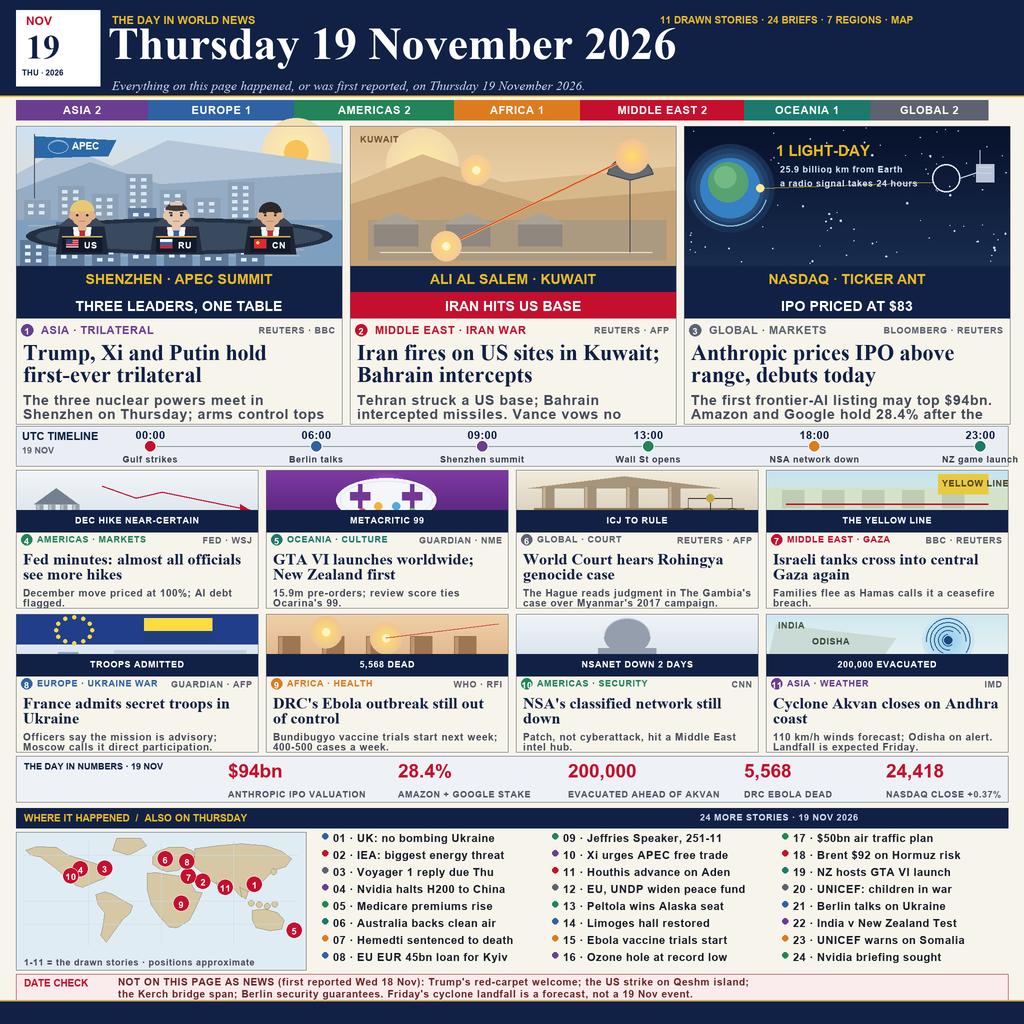
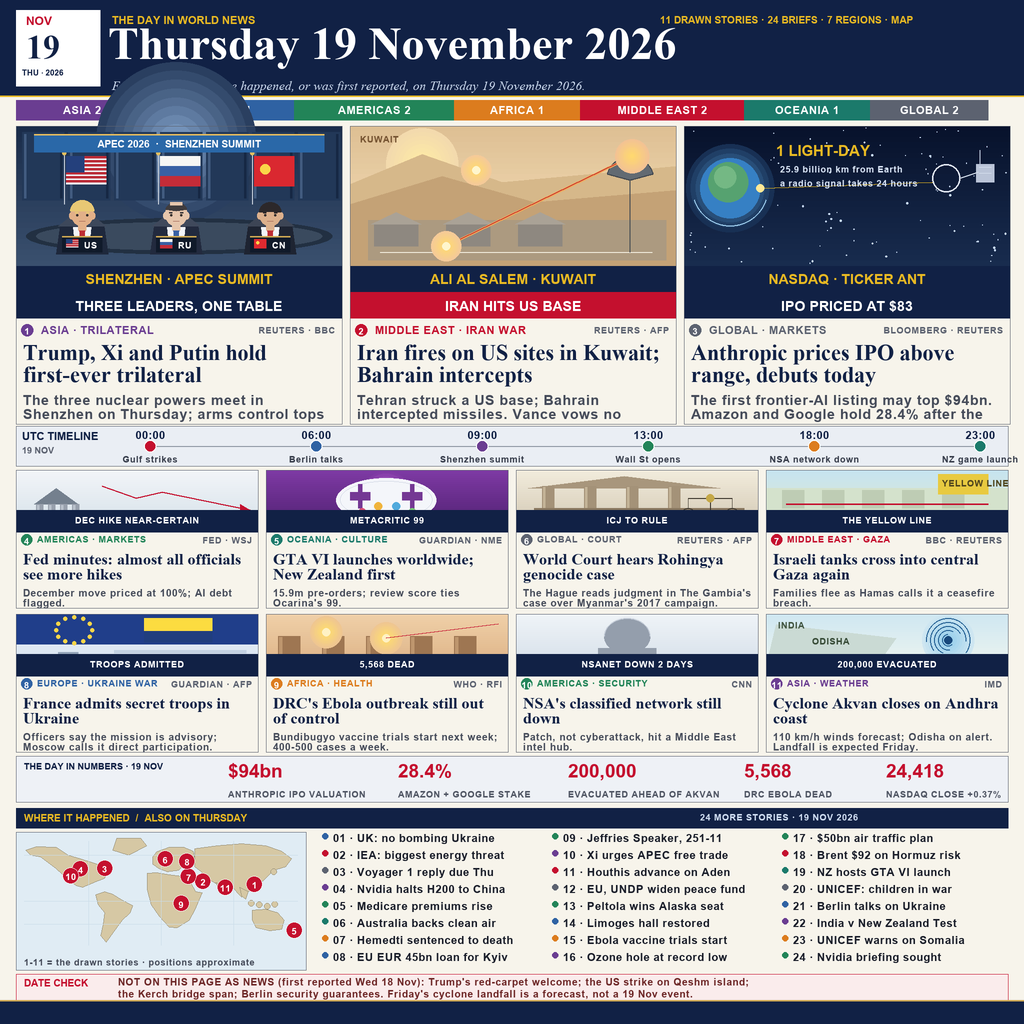
Replace summit background with an APEC conference hall and national flags

Changed region(s): [[0.0, 0.0625, 0.3438, 0.2812]]

diff --git a/render.py b/render.py
@@ -126,36 +126,40 @@ def badge(d,x,y,n,col,size=12):
 
 # ---------- illustrations (flat, deterministic, no external assets) ----------
 def art_shenzhen(d,x0,y0,x1,y1):
-    vg(d,x0,y0,x1,y1,(204,226,244),(250,216,170))
-    glow(d,x1-46,y0+26,34,(255,238,176),(244,222,180))
-    d.ellipse([x1-58,y0+14,x1-34,y0+38],fill=(248,194,88))
-    d.polygon([(x0,y0+48),(x0+52,y0+20),(x0+96,y0+40),(x0+152,y0+14),
-               (x1,y0+38),(x1,y0+82),(x0,y0+82)],fill=(180,198,216))
-    d.polygon([(x0,y0+64),(x0+74,y0+36),(x0+144,y0+58),(x1,y0+46),
-               (x1,y0+96),(x0,y0+96)],fill=(148,172,196))
-    d.rectangle([x0,y0+94,x1,y1],fill=(126,160,192))
-    for k in range(6):
-        d.rectangle([x0+12+k*3,y0+99+k*6,x1-18-k*5,y0+100+k*6],
-                    fill=mix((126,160,192),(250,216,170),0.3))
-    for i,ht in enumerate([20,34,26,46,30,22,38]):
-        bx=x0+8+i*34
-        d.rectangle([bx,y0+94-ht,bx+26,y0+94],fill=(140,160,182))
-        for wy in range(y0+98-ht,y0+90,7):
-            d.rectangle([bx+4,wy,bx+9,wy+3],fill=(214,230,244))
-            d.rectangle([bx+15,wy,bx+20,wy+3],fill=(214,230,244))
-    for i,ht in enumerate([26,44,34,58,38,28,48]):
-        bx=x0+4+i*36
-        d.rectangle([bx,y1-ht,bx+28,y1],fill=(94,120,152))
-        for wy in range(y1-ht+5,y1-6,7):
-            d.rectangle([bx+5,wy,bx+10,wy+3],fill=(224,238,248))
-            d.rectangle([bx+16,wy,bx+21,wy+3],fill=(212,228,244))
-    # APEC summit flag
-    d.line([(x0+18,y0+8),(x0+18,y0+72)],fill=(72,82,98),width=2)
-    d.polygon([(x0+19,y0+10),(x0+100,y0+14),(x0+92,y0+30),(x0+19,y0+32)],
-              fill=(42,104,168))
-    d.ellipse([x0+32,y0+14,x0+52,y0+27],outline=(232,240,248),width=1)
-    d.arc([x0+33,y0+15,x0+51,y0+26],200,340,fill=(196,220,240),width=1)
-    txt(d,x0+56,y0+14,"APEC",f("arialbd.ttf",10),WHITE)
+    # the summit hall in Shenzhen: dark wood-and-blue wall, warm ceiling light
+    vg(d,x0,y0,x1,y1,(26,44,74),(58,80,110))
+    glow(d,x0+160,y0+16,80,(126,158,198),(32,52,84))
+    for i in range(7):
+        bx=x0+6+i*46
+        d.rectangle([bx,y0+6,bx+42,y0+74],fill=(34,56,88))
+        d.rectangle([bx+2,y0+8,bx+4,y0+72],fill=(66,92,128))
+        d.rectangle([bx+38,y0+8,bx+40,y0+72],fill=(22,40,68))
+    # three large national flags behind the leaders
+    def big_flag(fx,fy,style):
+        d.line([(fx,fy-3),(fx,fy+48)],fill=(198,206,218),width=2)
+        d.ellipse([fx-2,fy-5,fx+2,fy-1],fill=(226,190,96))
+        if style=="us":
+            d.rectangle([fx+2,fy,fx+42,fy+28],fill=(240,242,246))
+            for r in range(7):
+                d.rectangle([fx+2,fy+r*4,fx+42,fy+r*4+2],fill=(186,44,56))
+            d.rectangle([fx+2,fy,fx+20,fy+16],fill=(36,64,124))
+        elif style=="ru":
+            d.rectangle([fx+2,fy,fx+42,fy+10],fill=(246,246,244))
+            d.rectangle([fx+2,fy+10,fx+42,fy+20],fill=(56,96,164))
+            d.rectangle([fx+2,fy+20,fx+42,fy+30],fill=(196,44,56))
+        else:
+            d.rectangle([fx+2,fy,fx+42,fy+30],fill=(218,40,48))
+            d.ellipse([fx+8,fy+8,fx+18,fy+18],fill=(250,214,72))
+    big_flag(x0+48,y0+30,"us")
+    big_flag(x0+142,y0+30,"ru")
+    big_flag(x0+236,y0+30,"cn")
+    # APEC summit banner across the top
+    d.rectangle([x0+18,y0+8,x1-18,y0+26],fill=(42,104,168))
+    d.rectangle([x0+18,y0+8,x1-18,y0+9],fill=(232,190,96))
+    bt="APEC 2026  ·  SHENZHEN SUMMIT"
+    bw=tlen(d,bt,f("arialbd.ttf",10))
+    txt(d,x0+(x1-x0-bw)/2,y0+12,bt,f("arialbd.ttf",10),WHITE)
+    # the table
     # the table
     d.ellipse([x0+10,y1-48,x1-10,y1-12],fill=(34,48,66))
     d.ellipse([x0+20,y1-44,x1-20,y1-16],fill=(58,74,94))
